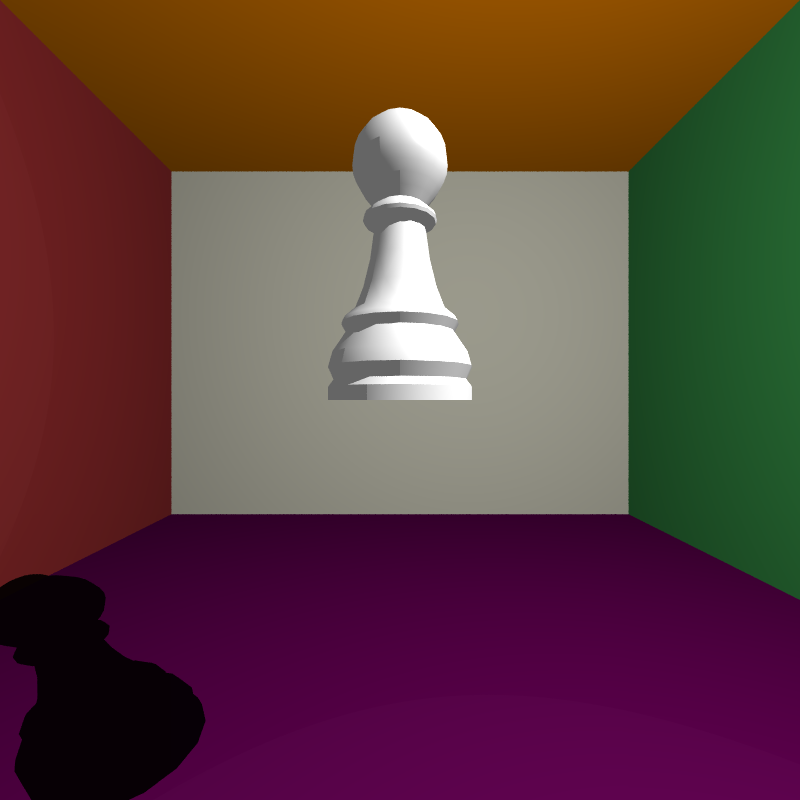
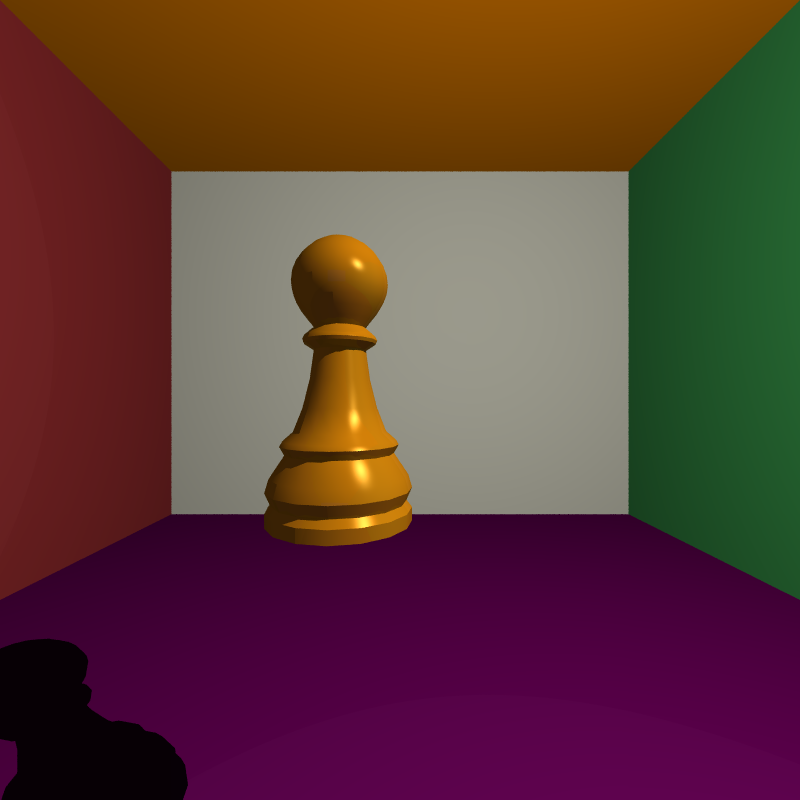
bounding box optimisation for triangle meshes intersections

Changed region(s): [[0.3125, 0.125, 0.5938, 0.6875], [0.0, 0.7188, 0.2812, 1.0], [0.0, 0.9688, 0.0312, 1.0]]

diff --git a/src/main/java/shapes/TriangleMesh.java b/src/main/java/shapes/TriangleMesh.java
@@ -43,8 +43,11 @@ import de.javagl.obj.ObjReader;
  *
  * Every polygonal mesh's class variable shapeID must end in "mesh".
  *
- * TODO - implement a bounding box for the TriangleMesh, and first check
- *        if ray hits the bounding box to optimise tracing
+ * Every triangle mesh has a bounding Box object created by taking
+ * min and max value of x,y,z coordinates of each vertex.
+ * In the 'intersect' method, we first check if the ray intersects
+ * the bounding box and return immediately if it does not to speed
+ * up rendering.
  */
 
 public class TriangleMesh implements RTShape {
@@ -57,6 +60,9 @@ public class TriangleMesh implements RTShape {
     private final ArrayList<Vector3D> vertexNormals;
     /// the triangles that the vertices form
     private final ArrayList<Triangle> triangleFaces;
+
+    /// bounding box for this triangle mesh
+    private final Box boundingBox;
 
     private final RTColor diffuseColor;
     private final Material material;
@@ -116,6 +122,9 @@ public class TriangleMesh implements RTShape {
             );
         }
 
+        /// create the bounding box
+        this.boundingBox = this.createBoundingBox();
+
         this.diffuseColor = color;
         this.material = material;
     }
@@ -127,8 +136,14 @@ public class TriangleMesh implements RTShape {
        The constructor takes the vertex indices as an argument, but not vertex normals indices
        because this constructor creates flat shaded triangles, i.e. vertex normals are all set
        to be equal to the unit normal to the surface of the triangle.
+
+       This constructor is 'package'-level, to be used solely for construction of a Box object,
+       because a Box object is a TriangleMesh, but one without a bounding Box, to avoid infinite
+       recursive creation of bounding boxes. Hence, this constructor does not create a bounding
+       box for this triangle mesh, rather it sets it to 'null'. The 'intersect' method later
+       checks if the bounding box exists (is it null) before it intersects the ray with it.
      */
-    public TriangleMesh(ArrayList<Vector3D> vertices, ArrayList<Vector3D> vertexNormals, int[] faceVertexIndices, Matrix4D modelTransformation, RTColor color, Material material) {
+     TriangleMesh(ArrayList<Vector3D> vertices, ArrayList<Vector3D> vertexNormals, int[] faceVertexIndices, Matrix4D modelTransformation, RTColor color, Material material) {
         this.vertices = new ArrayList<>();
         for(Vector3D vertex : vertices) {
             /// apply modelling transformation to transform the vertex to world coordinates (in scene), and add it to list
@@ -147,6 +162,12 @@ public class TriangleMesh implements RTShape {
                             color, material)
             );
         }
+
+        /*
+            This constructor is to be used only for construction of Box objects, so it does not create
+            a bounding box for this triangle mesh.
+        */
+        this.boundingBox = null;
 
         this.diffuseColor = color;
         this.material = material;
@@ -172,8 +193,18 @@ public class TriangleMesh implements RTShape {
        intersected later, so that was the motivation for making
        the 'intersect' method return an Intersection object rather
        than a simple Vector3D in the first place).
+
+       We first check if the ray intersects the bounding box of this
+       triangle mesh and return immediately if it does not, to speed
+       up rendering (290s for pawn before this, 31s after optimisation).
      */
     public Intersection intersect(Ray ray) {
+        /// if this triangle mesh has a bounding box, and
+        /// if the ray does not intersect the bounding Box of this triangle mesh, there are no intersections
+        if(this.boundingBox != null && this.boundingBox.intersect(ray) == null) {
+            return null;
+        }
+
         Intersection closestIntersection = null;
         double minDistanceSoFar = -1;
 
@@ -235,6 +266,40 @@ public class TriangleMesh implements RTShape {
      */
     public Material getMaterialAt(Vector3D point) {
         return this.material;
+    }
+    /*
+       Method that creates a bounding Box object for
+       this triangle mesh. It does so by taking the
+       min and max value of x,y,z coordinates of any
+       vertex in the mesh.
+
+       This method must be invoked only after 'vertices'
+       field has been initialized in the constructor and
+       after the modelling transformation has been applied
+       to function properly.
+     */
+    public Box createBoundingBox() {
+        double minX = this.vertices.get(0).getX(), maxX = this.vertices.get(0).getX(),
+                minY = this.vertices.get(0).getY(), maxY = this.vertices.get(0).getY(),
+                minZ = this.vertices.get(0).getZ(), maxZ = this.vertices.get(0).getZ();
+        for(Vector3D vertex : this.vertices) {
+                minX = Math.min(minX, vertex.getX());
+                maxX = Math.max(maxX, vertex.getX());
+
+                minY = Math.min(minY, vertex.getY());
+                maxY = Math.max(maxY, vertex.getY());
+
+                minZ = Math.min(minZ, vertex.getZ());
+                maxZ = Math.max(maxZ, vertex.getZ());
+        }
+
+        /*
+           The color and the material of the bounding box don't matter, it will never be shaded,
+           it's just a way of speeding up intersections. The modelling transformation of the Box
+           set to identity because the modelling transformation of this triangle mesh has already
+           been applied.
+         */
+        return new Box(minX, maxX, minY, maxY, minZ, maxZ, Matrix4D.identity, RTColor.blank, Material.defaultNonReflectiveMaterial);
     }
 
     /**

diff --git a/src/main/java/shapes/Box.java b/src/main/java/shapes/Box.java
@@ -37,7 +37,10 @@ public class Box extends TriangleMesh implements RTShape {
     public Box(double minX, double maxX, double minY, double maxY, double minZ, double maxZ, Matrix4D modelTransformation, RTColor color, Material material) {
         super(Box.createVertices(minX, maxX, minY, maxY, minZ, maxZ), Box.createVertexNormals(),
                 new int[]{0,1,3, 0,3,2, 6,4,5, 6,5,7, 1,7,5, 1,5,3, 0,2,4, 0,4,6, 2,3,5, 2,5,4, 0,6,7, 0,7,1},
-                //new int[]{1,1,1, 1,1,1, 0,0,0, 0,0,0, 4,4,4, 4,4,4, 5,5,5, 5,5,5, 2,2,2, 2,2,2, 3,3,3, 3,3,3},
+                /*
+                No need for vertex normals indices, boxes are always flat shaded.
+                new int[]{1,1,1, 1,1,1, 0,0,0, 0,0,0, 4,4,4, 4,4,4, 5,5,5, 5,5,5, 2,2,2, 2,2,2, 3,3,3, 3,3,3},
+                 */
                 modelTransformation,
                 color, material);
     }

diff --git a/src/main/java/Camera.java b/src/main/java/Camera.java
@@ -358,7 +358,7 @@ public class Camera {
      */
     public static void saveImage(BufferedImage image) {
         try{
-            File f = new File("./rendered images/result.png");
+            File f = new File("./rendered images/pawnFlatShaded.png");
             ImageIO.write(image, "png", f);
         }
         catch(IOException e) {
@@ -368,7 +368,7 @@ public class Camera {
 
     public static void main(String[] args) throws ParserConfigurationException, IOException, SAXException, IncorrectSceneDescriptionXMLStructureException {
         Camera c = new Camera();
-        BufferedImage b = c.renderWithCoreParallelization("src/main/resources/scene descriptions/scene1.xml");
+        BufferedImage b = c.renderWithCoreParallelization("src/main/resources/scene descriptions/scene3.xml");
         Camera.saveImage(b);
     }
 }
